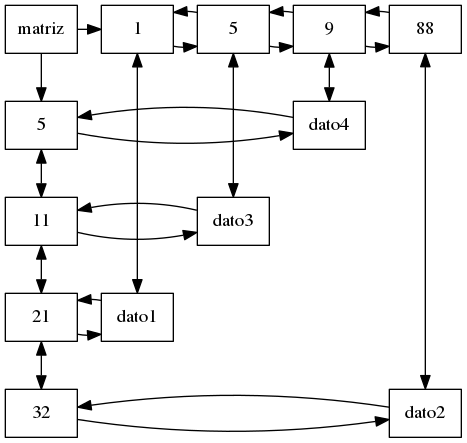
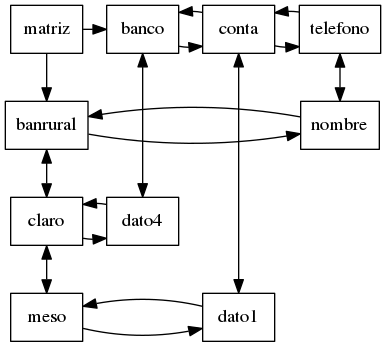
Add files via upload

Changed region(s): [[0.0, 0.0, 0.9948, 1.0], [0.342, 0.8357, 0.4041, 0.8646]]

diff --git a/python/matrizdispersa.py b/python/matrizdispersa.py
@@ -542,8 +542,19 @@ class matriz(object):
 
         return str(superstring.rstrip(','))
 
+
+
         #x es el las empresas
         #y los departamentos
+
+    def verificarlog(self, usuario, contrasena, empresa , departamentos): #verifica si el log es correcto
+
+        nodo = self.buscarpornombre(usuario) #si existe el nodo con ese id verifico los demas datos
+        if nodo!= None:
+            if nodo.contrasena== contrasena and nodo.x == empresa and nodo.y== departamentos:
+                return 'true'
+
+        return 'false'
 
 
 
@@ -554,10 +565,9 @@ class matriz(object):
 
 mat = matriz()
 #x,y, nombre, nombreusuario, contrasena
-mat.insertar(1,21,"dato1", "queso", "2")
-mat.insertar(88,32,"dato2","bato","3")
-mat.insertar(5,11,"dato3","loco","3")
-mat.insertar(9,5,"dato4","queso","3")
+mat.insertar('conta','meso',"dato1", "queso", "2")
+mat.insertar('telefono','banrural','nombre','id','20')
+mat.insertar('banco','claro',"dato4","queso","3")
 
 mat.insertaractivos('queso',"nuebo",'nombre', 'descripcion1')
 mat.insertaractivos('queso',"maje",'nombre', 'descripcion2')
@@ -571,7 +581,9 @@ mat.insertaractivos('queso',"orga1",'nombre', 'descripcion8')
 mat.insertaractivos('queso',"orga10",'nombre', 'descripcion9')
 mat.insertaractivos('queso',"orga3",'nombre', 'descripcion10')
 mat.modificaractivo('queso','orga','esta es una nueva describcion')
-print mat.obtenerdatosdellog()
+mat.graficar()
+
+print str(mat.verificarlog('queso','3','banco','claro'))
 
 
 
